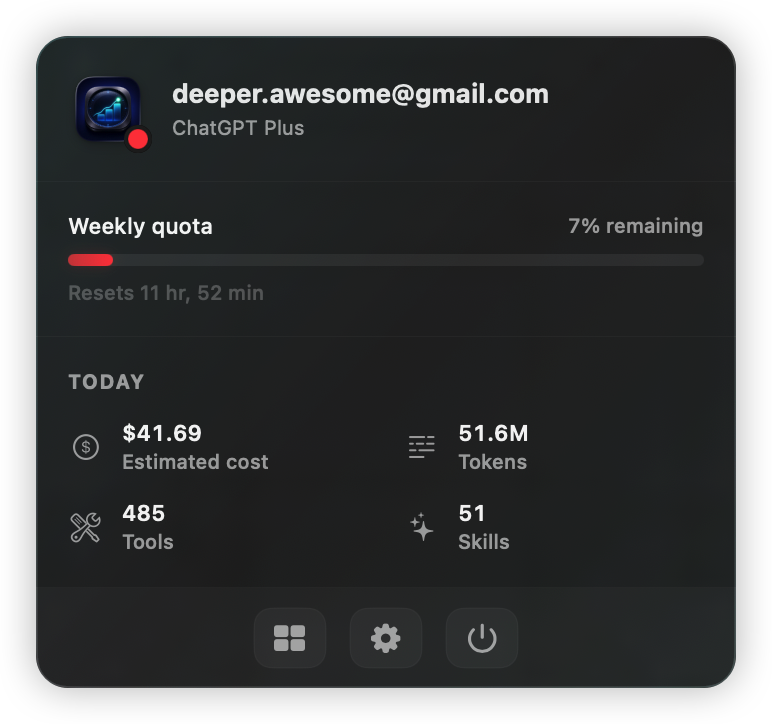
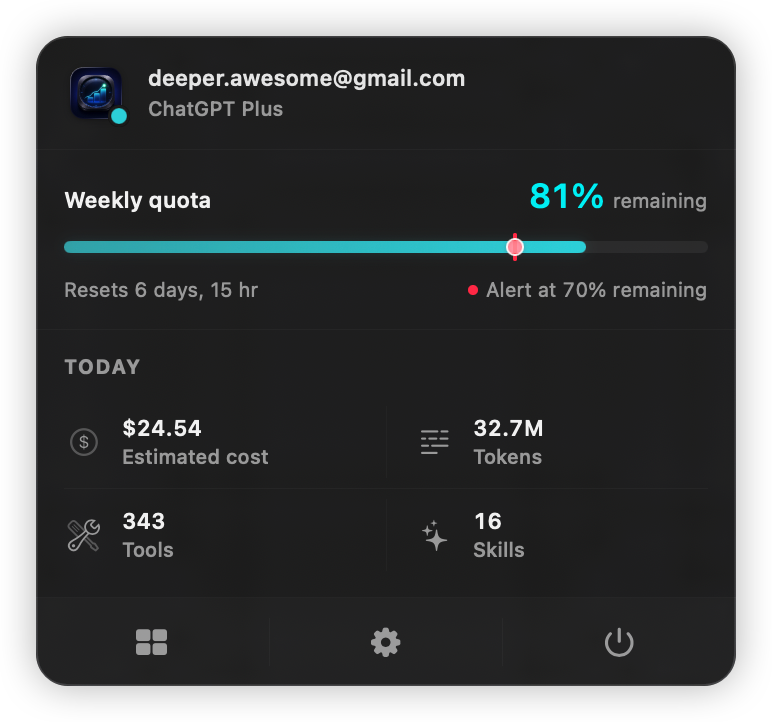
Update README.md about: quota alert marker

diff --git a/README.md b/README.md
@@ -31,7 +31,7 @@ The debugger is deliberately on-demand: conversation payloads are read from the 
 - **Model portfolio:** compare usage volume, runtime, cache behavior, session count, and API-equivalent cost across models.
 - **Subscription usage:** see the latest plan, quota windows, reset times, credits, and limit status reported by Codex.
 - **Historical analysis:** switch between 7 days, 30 days, 90 days, one year, or all history, with daily, weekly, and monthly charts.
-- **Menu-bar status:** check remaining quota and today's tokens, tool calls, skill activations, and estimated cost without opening the main window.
+- **Menu-bar quota alerts:** check remaining quota and place a draggable alert marker at the percentage you want to preserve. The threshold also appears in the menu-bar icon, alongside quick access to today's tokens, tool calls, skill activations, and estimated cost.
 - **Command-line access:** query the same local data from scripts and export session metrics as JSON.
 
 ## A closer look
@@ -39,9 +39,9 @@ The debugger is deliberately on-demand: conversation payloads are read from the 
 <table>
   <tr>
     <td width="34%" valign="top">
-      <img src="docs/images/menubar.png" alt="Codex Dashboard menu-bar popover">
+      <img src="docs/images/menubar.png" alt="Codex Dashboard menu-bar popover showing a draggable alert at 70 percent remaining">
       <br><strong>Menu bar</strong><br>
-      Quota and today's key metrics, always close at hand.
+      Track remaining quota and drag the alert marker to the threshold you want to preserve—without leaving the menu bar.
     </td>
     <td width="66%" valign="top">
       <img src="docs/images/projects.png" alt="Codex Dashboard projects view">
